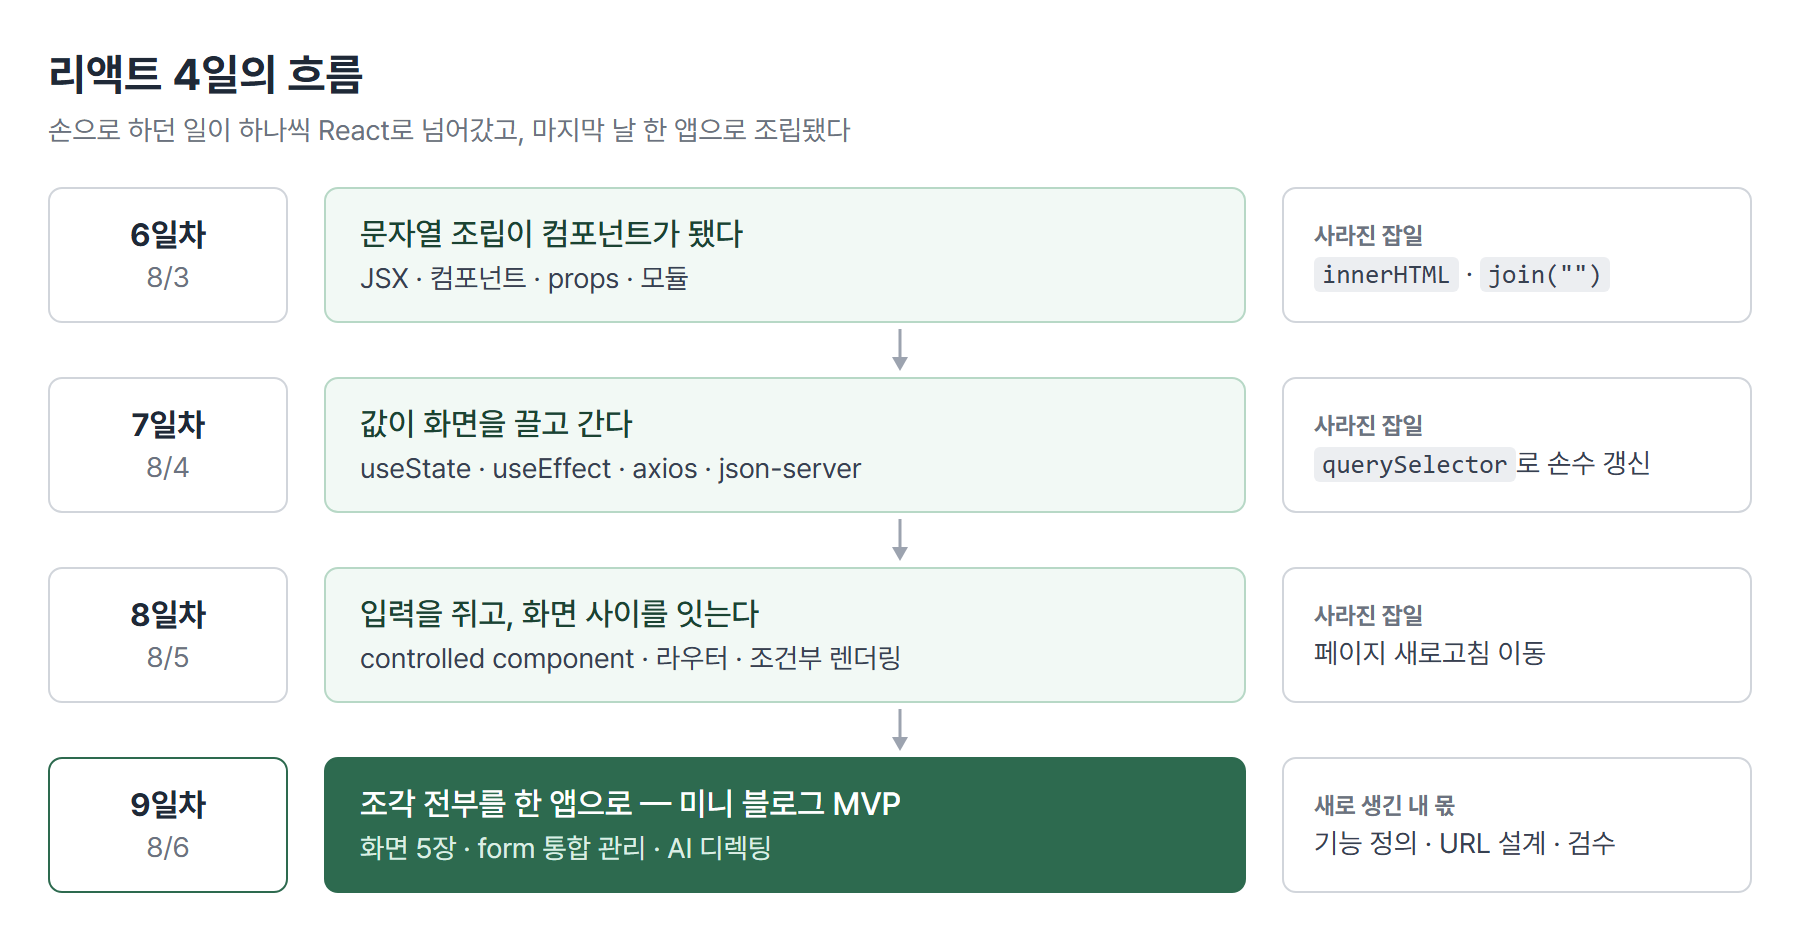
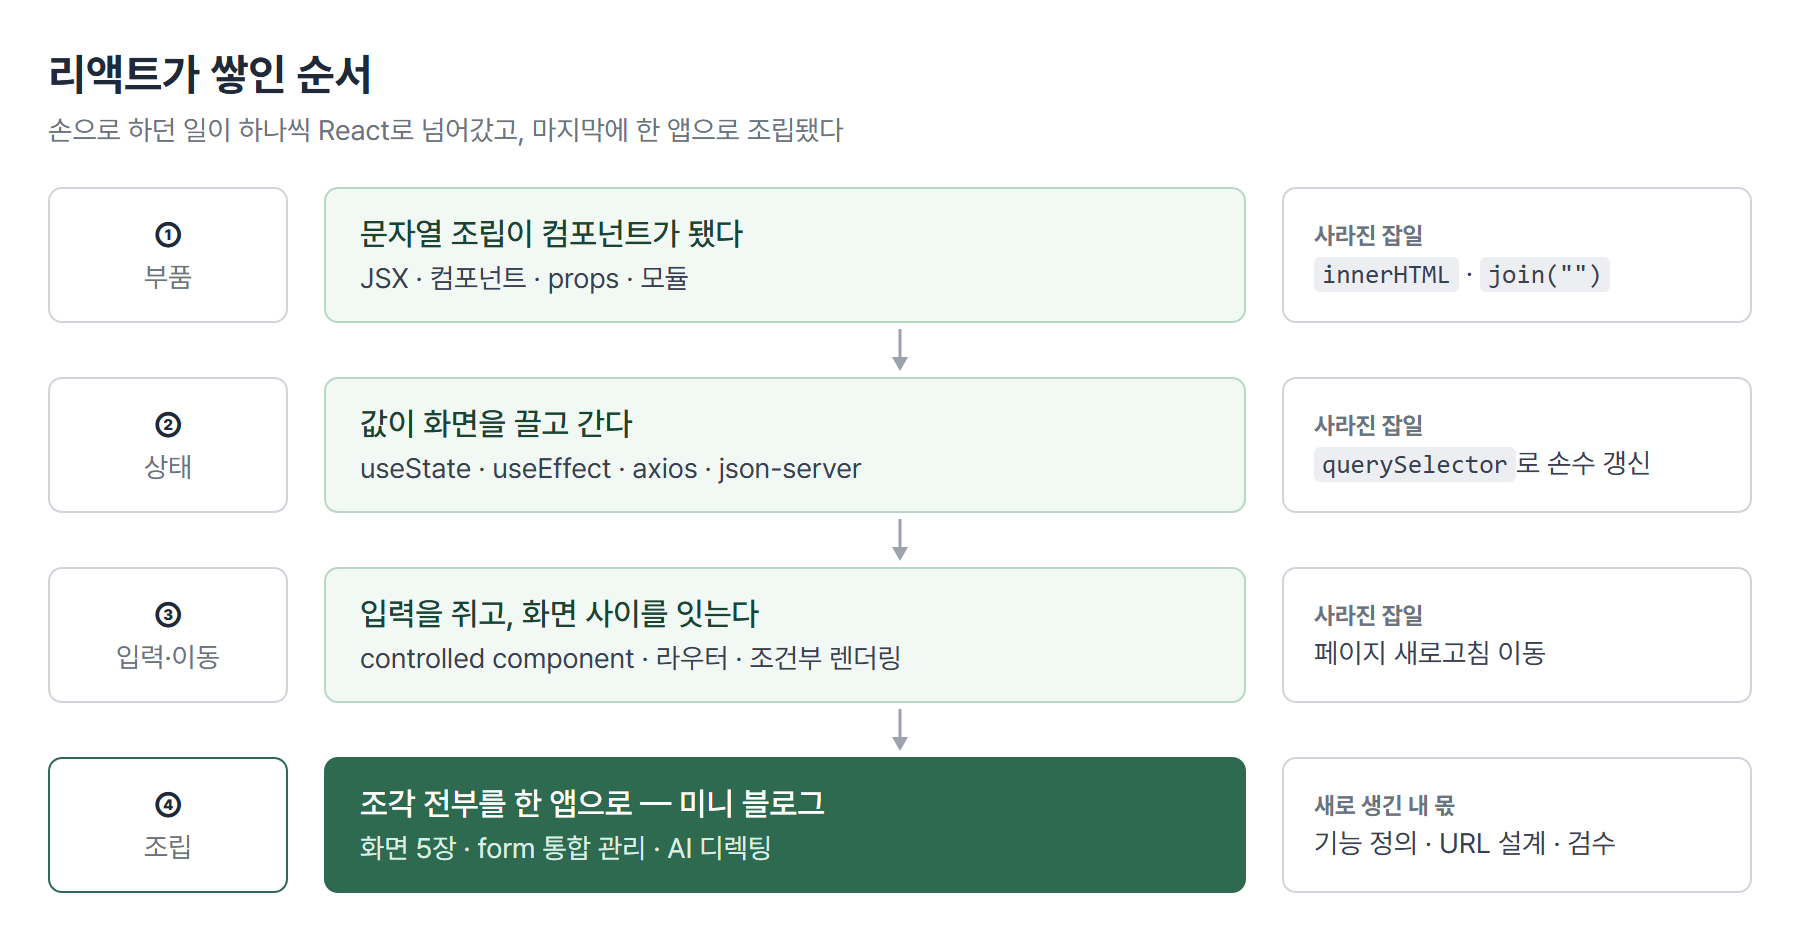
docs(lgcns): 리액트 정리 2차 개고 — 일자 귀속 제거(주제 축)·관계형 도식 3장 추가(신고루프·controlled 순환·조립도)
Claude-Session: https://claude.ai/code/session_01KZrq5vw7kcFWonEL6P7VYE

diff --git a/정리/리액트-본교육-흐름정리.md b/정리/리액트-본교육-흐름정리.md
@@ -1,29 +1,27 @@
-# <LG CNS 6기] 리액트 중간 정리 — 6~9일차, 손으로 하던 일이 React로 넘어간 순서
+# <LG CNS 6기] 리액트 중간 정리 — 손으로 하던 일이 React로 넘어간 순서
 
-> 블로그를 velog에서 티스토리로 옮기면서 본교육 리액트 파트의 기록이 두 곳에 갈라졌다. 일자별 TIL을 다시 쓰는 대신, **4일(6~9일차)이 하나의 흐름이었다는 것**을 한 장으로 짚어둔다. 처음 보는 사람도 따라올 수 있게, 각 파트를 "무슨 얘기인지 → 그림/화면 → 핵심 코드" 순서로 정리했다.
+> 블로그를 velog에서 티스토리로 옮기면서 본교육 리액트 파트의 기록이 두 곳에 갈라졌다. 일자별 TIL을 다시 쓰는 대신, 나흘치 내용이 하나의 흐름이었다는 것을 한 장으로 짚어둔다. 처음 보는 사람도 따라올 수 있게, 각 파트를 "무슨 얘기인지 → 그림/화면 → 핵심 코드" 순서로 정리했다.
 
-## 4일 동안 배운 걸 한 문장으로
+## 배운 걸 한 문장으로
 
 **"글을 올리고 댓글을 다는 작은 블로그 하나를, 처음부터 끝까지 만들 수 있게 됐다."**
 
-블로그를 하나 상상해 보면 필요한 게 보인다. 글 목록이 뜨는 화면, 글 하나를 읽는 화면, 글을 쓰는 화면. 그리고 내가 글자를 치면 받아주고, 등록을 누르면 저장되고, 저장된 글이 다시 화면에 나타나야 한다. 4일의 수업은 이 재료를 하루에 하나씩 준 것이었다 — 화면을 만드는 법(6일차), 값이 바뀌면 화면이 따라오게 하는 법(7일차), 입력을 받고 화면 사이를 오가는 법(8일차), 그리고 전부 조립(9일차).
+블로그를 하나 상상해 보면 필요한 게 보인다. 글 목록이 뜨는 화면, 글 하나를 읽는 화면, 글을 쓰는 화면. 그리고 글자를 치면 받아주고, 등록을 누르면 저장되고, 저장된 글이 다시 화면에 나타나야 한다. 리액트 수업은 이 재료를 순서대로 하나씩 준 것이었다 — 화면을 만드는 법, 값이 바뀌면 화면이 따라오게 하는 법, 입력을 받고 화면 사이를 오가는 법, 그리고 조립.
 
-![리액트 4일의 흐름](images/리액트흐름정리-01-4일흐름.png)
+![리액트가 쌓인 순서](images/리액트흐름정리-01-4일흐름.png)
 
-| 일차 | 날짜 | 그날의 축 | 대표 개념 |
-|:----:|------|-----------|-----------|
-| 6일차 | 8/3 | 화면을 부품으로 만든다 | JSX·컴포넌트·props |
-| 7일차 | 8/4 | 값이 바뀌면 화면이 따라온다 | useState·useEffect·axios |
-| 8일차 | 8/5 | 입력을 받고, 화면을 옮긴다 | controlled component·라우터 |
-| 9일차 | 8/6 | 조각 전부를 한 앱으로 | 미니 블로그 MVP |
-
-새 마법이 매일 나온 게 아니다. **원래 손으로 하던 일이 하나씩 React 쪽으로 넘어갔고**, 마지막 날 그 조각들이 블로그 한 벌로 조립됐다.
+| 단계 | 축 | 대표 개념 |
+|:----:|-----|-----------|
+| ① 부품 | 화면을 부품으로 만든다 | JSX·컴포넌트·props |
+| ② 상태 | 값이 바뀌면 화면이 따라온다 | useState·useEffect·axios |
+| ③ 입력·이동 | 입력을 받고, 화면을 옮긴다 | controlled component·라우터 |
+| ④ 조립 | 조각 전부를 한 앱으로 | 미니 블로그 |
 
 ## ✍ 파트별로 쪼개 보기
 
-### 1. 6일차 — 화면을 부품으로 만든다
+### 1. 화면을 부품으로 만든다
 
-리액트 이전에는 화면을 만들 때 **글자를 이어 붙였다.** "카드 10장을 그려라"라고 하면, 카드 한 장짜리 HTML 문자열을 만들어 10번 이어 붙인 뒤 화면에 통째로 꽂는 식이다. 리액트는 발상이 다르다 — 카드 한 장을 **부품**으로 만들어 두고, 필요한 만큼 찍어서 조립한다. 이 부품의 이름이 **컴포넌트**다.
+리액트 이전에는 화면을 만들 때 글자를 이어 붙였다. "카드 10장을 그려라"라고 하면, 카드 한 장짜리 HTML 문자열을 만들어 10번 이어 붙인 뒤 화면에 통째로 꽂는 식이다. 리액트는 카드 한 장을 **부품**으로 만들어 두고 필요한 만큼 찍어서 조립한다. 이 부품의 이름이 **컴포넌트**다.
 
 > 💡 **화면 = 부품(컴포넌트)의 조립.** 부품에 값을 넣는 통로가 **props**다 — 같은 부품에 다른 값을 넣으면 다른 카드가 나온다.
 
@@ -36,56 +34,60 @@ container.innerHTML = items.map(renderCard).join("");
 ```
 
 - 배열을 도는 `.map()`은 양쪽에 그대로 있다. 바뀐 건 결과물 — 문자열이 아니라 부품.
-- 그래서 잡일 두 개(`join("")` 이어 붙이기, `innerHTML` 꽂기)가 사라졌다.
+- 그 덕에 잡일 두 개(`join("")` 이어 붙이기, `innerHTML` 꽂기)가 사라졌다.
 
-### 2. 7일차 — 값이 바뀌면 화면이 따라온다
+### 2. 값이 바뀌면 화면이 따라온다
 
-버튼을 눌러 숫자를 올리는 계수기를 만든다고 하자. 평범한 변수(`let cnt`)에 1을 더하면 — **값은 올라가는데 화면은 0에 멈춰 있다.** 리액트가 그 변수를 지켜보고 있지 않아서, 바뀐 줄 모르기 때문이다. 그래서 리액트에는 "값이 바뀌었어요"라고 **알려주는 전용 창구**가 있다. 그게 `useState`다.
+버튼을 눌러 숫자를 올리는 계수기를 만든다고 하자. 평범한 변수(`let cnt`)에 1을 더하면 값은 올라가는데 **화면은 0에 멈춰 있다.** 리액트가 그 변수를 지켜보고 있지 않아서, 바뀐 줄 모르기 때문이다. 그래서 값을 바꿀 때는 "바뀌었다"고 **알려주는 전용 창구**를 쓴다. 그게 `useState`다.
+
+![일반 변수 vs state — 신고 루프](images/리액트흐름정리-04-상태신고루프.png)
 
 > 💡 **화면을 바꾸는 유일한 길은 신고다.** `setCnt(...)`처럼 전용 함수로 바꿔야 리액트가 알아차리고 화면을 다시 그린다. 직접 대입(`cnt = cnt + 1`)은 화면에 반영되지 않는다.
 
-```jsx
-const [cnt, setCnt] = useState(0);   // [현재 값, 신고 창구]
+서버에서 데이터를 받아올 때도 같은 원리다 — 받아온 목록을 `setBlogs(...)`에 담아야 화면에 뜬다. "언제 받아올 것인가"를 정하는 자리가 `useEffect`다. **화면을 다 그린 뒤에 할 일**을 두는 곳이고, 두 번째 인자를 `[]`로 주면 처음 한 번만 실행된다. 안 주면 그릴 때마다 다시 받아와서 무한 반복에 빠진다.
 
-setCnt(cnt + 1);   // 값을 바꾸면서 "바뀌었다"고 신고 → 화면이 따라온다
+```jsx
+useEffect(() => {
+  loadData();   // 목록을 받아와 setBlogs(...)에 담는다
+}, []);         // [] = 화면에 처음 붙을 때 한 번만
 ```
 
-서버에서 데이터를 받아올 때도 같은 원리다. 받아온 목록을 `setBlogs(...)`로 담아야 화면에 뜬다. 다만 "언제 받아올 것인가"가 문제가 되는데, 그 자리가 `useEffect`다 — **화면을 다 그린 뒤에 할 일**을 두는 곳이고, 두 번째 인자를 `[]`로 주면 처음 한 번만 실행된다(안 주면 그릴 때마다 또 받아와서 무한 반복에 빠진다).
+데이터가 오는 길은 이렇게 깔았다. 서버 주소는 코드 밖 파일(`.env`)에 두고, `axios`라는 통신 도구에 그 주소를 박아 앱 전체가 같이 쓴다. 진짜 서버는 아직 없으니 `json-server`라는 도구가 파일 하나(`db.json`)를 서버처럼 흉내 낸다.
 
-데이터가 오는 길도 이날 깔렸다. 서버 주소는 코드 밖 파일(`.env`)에 두고, `axios`라는 통신 도구에 그 주소를 박아 앱 전체가 같이 쓴다. 진짜 서버는 아직 안 배웠으니 `json-server`라는 도구가 **파일 하나(db.json)를 서버처럼** 흉내 내 준다.
+### 3. 입력을 받고, 화면을 옮긴다
 
-### 3. 8일차 — 입력을 받고, 화면을 옮긴다
+로그인 화면을 떠올리면 된다. 아이디와 비밀번호를 치고, 버튼을 누르면 서버에 물어보고, 맞으면 다음 화면으로 넘어간다. 여기서 두 가지가 필요하다 — 입력받는 법과 화면을 옮기는 법.
 
-로그인 화면을 떠올리면 된다. 아이디와 비밀번호를 치고, 버튼을 누르면 서버에 물어보고, 맞으면 다음 화면으로 넘어간다. 여기서 두 가지가 필요하다 — **입력받는 법**과 **화면을 옮기는 법**.
+입력칸은 그냥 두면 브라우저가 값을 들고 있다. 리액트에서는 그 값을 **state가 쥐게** 만든다(**controlled component**). 화면에 보이는 값과 코드가 아는 값이 항상 같아지기 때문이다.
 
-입력칸은 그냥 두면 브라우저가 값을 들고 있다. 리액트에서는 그 값을 **state가 쥐게** 만든다. 화면에 보이는 값과 코드가 아는 값이 항상 같아지기 때문이다(이걸 **controlled component**라 부른다). 구현하면 이런 화면이 나온다.
+![controlled component — value와 onChange의 순환](images/리액트흐름정리-05-컨트롤드순환.png)
+
+> 💡 **입력칸의 주인은 state다.** `value`(state → 화면)와 `onChange`(화면 → state) 한 쌍이 같이 있어야 한다. 하나만 있으면 글자가 안 쳐지거나, 친 값을 코드가 모른다.
+
+이 구조로 만든 회원가입 폼이 이렇게 나온다.
 
 ![회원가입 폼 — controlled form 구현 화면](images/리액트흐름정리-02-회원가입폼.png)
 
-> 💡 **입력칸의 주인은 state다.** `value`(state → 화면)와 `onChange`(화면 → state) 한 쌍이 반드시 같이 있어야 한다. 하나만 있으면 글자가 안 쳐지거나, 친 값을 코드가 모른다.
-
-```jsx
-const [email, setEmail] = useState("");
-
-<input value={email} onChange={(e) => setEmail(e.target.value)} />
-```
-
-화면 이동은 **페이지를 새로 받는 게 아니다.** 리액트 앱은 화면이 한 장뿐이고(SPA), 주소에 따라 **부품을 갈아 끼운다.** 주소와 부품을 짝지어 두는 표가 라우터다.
+화면 이동은 페이지를 새로 받는 게 아니다. 리액트 앱은 화면이 한 장뿐이고(SPA), 주소에 따라 **부품을 갈아 끼운다.** 주소와 부품을 짝지어 두는 표가 라우터다.
 
 ```jsx
 <Route path="/users/signIn"       element={<SignInPage />} />
 <Route path="/blogs/read/:blogId" element={<BlogReadPage />} />   // :blogId = 자리 표시
 ```
 
-### 4. 9일차 — 조각을 모아 미니 블로그
+### 4. 조각을 모아 미니 블로그
 
-마지막 날은 새 개념 없이 **조립**이었다. 글 목록 보기 / 글 보기 / 댓글 보기 / 글 작성 / 댓글 작성 — 기능 다섯 개를 정하고, 각 기능이 어떤 데이터를 주고받는지 표로 만들고, 그 표대로 화면을 붙였다. 구현하면 이런 화면이 된다.
+마지막은 새 개념 없이 조립이다. 글 목록 보기 / 글 보기 / 댓글 보기 / 글 작성 / 댓글 작성 — 기능 다섯 개를 정하고, 각 기능이 어떤 데이터를 주고받는지 표로 만들고, 그 표대로 화면을 붙였다. 부품들이 연결된 전체 그림은 이렇다.
+
+![미니 블로그 — 부품 연결 구조](images/리액트흐름정리-06-조립도.png)
+
+> 💡 **설계의 순서는 기능 → 데이터 → 화면.** 화면부터 그리면 데이터가 화면 모양에 끌려다닌다. 기능 목록이 먼저 있으면 그것이 곧 API 표가 되고, 화면은 마지막에 붙는다.
+
+구현하면 이런 화면이 된다.
 
 ![글 보기 + 댓글 — 미니 블로그 구현 화면](images/리액트흐름정리-03-글보기.png)
 
-> 💡 **설계의 전부는 순서였다 — 기능 → 데이터 → 화면.** 화면부터 그리면 데이터가 화면 모양에 끌려다닌다. 기능 목록이 먼저 있으면 그것이 곧 API 표가 되고, 화면은 마지막에 붙는다.
-
-조립하면서 배운 요령 두 가지.
+조립하면서 정리된 것 두 가지.
 
 ```jsx
 // 입력칸이 3개면 state도 3개? — 아니다. 객체 하나로 묶는다
@@ -96,21 +98,21 @@ const changeHandler = (e) => {
 };
 ```
 
-- 입력칸마다 state를 따로 만들면 칸이 늘 때마다 고칠 곳이 서너 군데씩 늘어난다. 객체 하나 + 공용 핸들러 하나면 input에 `name`만 붙이면 끝 — **고칠 곳의 개수 자체를 줄여 실수를 줄인다.**
-- 댓글을 등록한 뒤 목록 전체를 서버에서 다시 받아올 수도 있고, 방금 쓴 댓글 한 건만 화면에 붙일 수도 있다. 위 캡처의 세 번째 댓글이 실제로 그렇게 붙은 것이다. 어느 쪽이 정답이 아니라 **주고받는 것(서버 왕복)과 최신성(남이 쓴 글) 사이의 선택**이다.
+- 입력칸마다 state를 따로 만들면 칸이 늘 때마다 고칠 곳이 서너 군데씩 늘어난다. 객체 하나 + 공용 핸들러 하나면 input에 `name`만 붙이면 된다 — **고칠 곳의 개수를 줄여 실수를 줄인다.**
+- 댓글을 등록한 뒤에는 목록 전체를 서버에서 다시 받아올 수도 있고, 방금 쓴 댓글 한 건만 화면에 붙일 수도 있다. 위 캡처의 세 번째 댓글이 후자다. 어느 쪽이 정답이 아니라 서버 왕복(비용)과 최신성(남이 쓴 글) 사이의 선택이다.
 
 ## 아직 안 닫힌 것
 
-정리하면서 남아 있는 구멍만 추린다. 다음 진도나 복습에서 닫을 자리.
+남아 있는 구멍만 추린다. 다음 진도나 복습에서 닫을 자리.
 
-- `useEffect`의 **cleanup** — 화면에서 떠날 때 뒷정리하는 부분(7일차부터 이월)
+- `useEffect`의 **cleanup** — 화면에서 떠날 때 뒷정리하는 부분
 - **사용자 정의 Hook** — 그냥 함수로 빼는 것과 뭐가 다른지
 - **JWT** — 로그인 뒤 받아 두는 출입증. 이름과 자리까지만 배웠고, 만드는 쪽은 백엔드에서
-- `class` → `className` **손버릇** — 머리는 아는데 붙여넣기 순간마다 재발(3회째)
+- `class` → `className` **손버릇** — 머리는 아는데 남의 HTML을 붙여 넣는 순간마다 재발
 
 ## 다음
 
-프론트엔드는 8/10까지. 그 뒤 백엔드(8/11~)에서는 지금 `json-server`가 공짜로 해 주던 자리 — 요청을 받아 데이터를 꺼내 주는 쪽 — 를 직접 만든다. 수업 중 스치듯 나온 ORM(JPA·MyBatis)·DTO가 그 예고편이다.
+프론트엔드 파트가 끝나면 백엔드로 넘어간다. 지금 `json-server`가 대신해 주던 자리 — 요청을 받아 데이터를 꺼내 주는 쪽 — 를 직접 만들게 되고, 수업 중 이름만 스친 ORM(JPA·MyBatis)·DTO를 거기서 다시 만난다.
 
 ---
 태그: `LG CNS 6기` · `개발자` · `LGCNSINSPIRECAMP`
